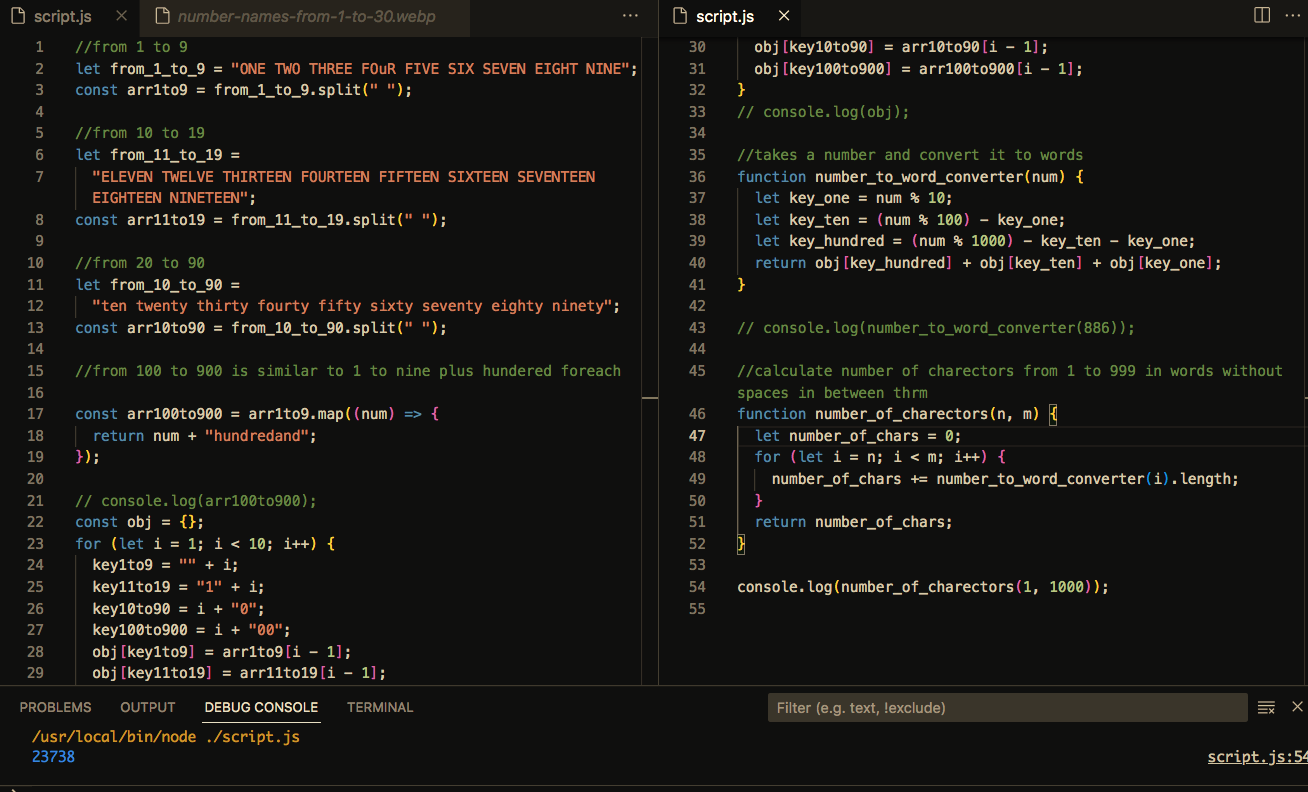
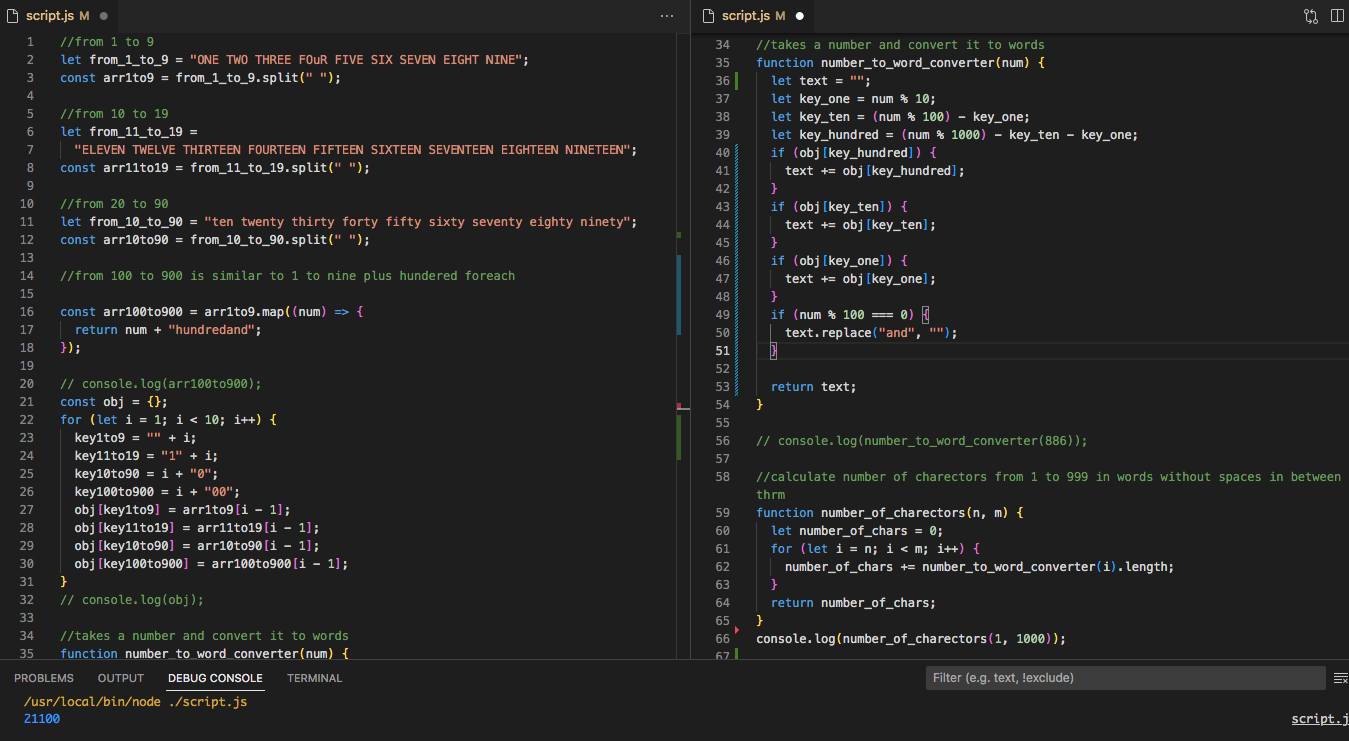
challenge 5 have been solved

diff --git a/challenge #5/script.js b/challenge #5/script.js
@@ -1,0 +1,77 @@
+class MyDate {
+  constructor(year, month, dayOfMonth, dayOfWeek) {
+    (this.year = year), (this.month = month), (this.dayOfMonth = dayOfMonth), (this.dayOfWeek = dayOfWeek);
+  }
+}
+class DeliveryTime {
+  constructor(hour, minute, secound) {
+    (this.hour = hour), (this.minute = minute), (this.secound = secound);
+  }
+}
+
+function deliveryTimeCalculator(year) {
+  // 5 hours            (5×60×60) +
+  // 48 minutes            (48×60) +
+  // 46 seconds                46
+  //                     --------
+  //                        20926
+  // difference between to years in seconds
+  let DeliveryTimeSecond = ((year - 1400) * 20926) % (24 * 60 * 60);
+  let hours = Math.floor((Math.floor(DeliveryTimeSecond / 3600) + 13) % 24);
+  let minutes = Math.floor((Math.floor((DeliveryTimeSecond % 3600) / 60) + 7) % 60);
+  let seconds = Math.floor(((DeliveryTimeSecond % 60) + 28) % 60);
+  const deliveryTime = new DeliveryTime(hours, minutes, seconds);
+  return deliveryTime;
+}
+
+function isLeapYear(year) {
+  if (deliveryTimeCalculator(year).hour > 12 && deliveryTimeCalculator(year - 1).hour < 12) {
+    return true;
+  } else {
+    return false;
+  }
+}
+
+function maxDays(month, year) {
+  if (month < 6) {
+    return 31;
+  } else if (month < 12) {
+    return 30;
+  } else if (!isLeapYear(year)) {
+    return 29;
+  } else {
+    return 30;
+  }
+}
+
+function tommarowCalculator(today) {
+  let dayOfMonth, dayOfWeek, year, month;
+  year = today.year + Math.floor((today.month + Math.floor((today.dayOfMonth + 1) / maxDays(today.month, today.year))) / 12);
+
+  month = (today.month + Math.floor((today.dayOfMonth + 1) / maxDays(today.month, today.year))) % 12;
+  if (month === 0) {
+    month = 12;
+  }
+
+  dayOfMonth = (today.dayOfMonth + 1) % maxDays(today.month, today.year);
+  dayOfWeek = (today.dayOfWeek + 1) % 7;
+
+  if (dayOfMonth === 0) {
+    dayOfMonth = maxDays(today.month, today.year);
+  }
+
+  const tomarrow = new MyDate(year, month, dayOfMonth, dayOfWeek);
+  return tomarrow;
+}
+
+let startDate = new MyDate(1400, 1, 1, 1);
+let counter = 0;
+
+while (startDate.year < 1500) {
+  startDate = tommarowCalculator(startDate);
+
+  if (startDate.dayOfMonth === 1 && startDate.dayOfWeek === 0) {
+    counter++;
+  }
+}
+console.log(counter);

diff --git a/challenge #1/script.js b/challenge #1/script.js
@@ -33,10 +33,25 @@ for (let i = 1; i < 10; i++) {
 
 //takes a number and convert it to words
 function number_to_word_converter(num) {
+  let text = "";
   let key_one = num % 10;
   let key_ten = (num % 100) - key_one;
   let key_hundred = (num % 1000) - key_ten - key_one;
-  return obj[key_hundred] + obj[key_ten] + obj[key_one];
+  if (obj[key_hundred]) {
+    text += obj[key_hundred];
+  }
+  if(10<num<20){}
+  if (obj[key_ten]) {text+=obj[key11to19]
+    text += obj[key_ten];
+  }
+  if (obj[key_one]) {
+    text += obj[key_one];
+  }
+  if (num % 100 === 0) {
+    text.replace("and", "");
+  }
+
+  return text;
 }
 
 // console.log(number_to_word_converter(886));
@@ -49,5 +64,11 @@ function number_of_charectors(n, m) {
   }
   return number_of_chars;
 }
+// console.log(number_of_charectors(1, 1000));
 
-console.log(number_of_charectors(1, 1000));
+let arr = new Array(25);
+for (let i = 98; i < 123; i++) {
+  arr[i - 1] = number_to_word_converter(i);
+}
+
+console.log(arr);
